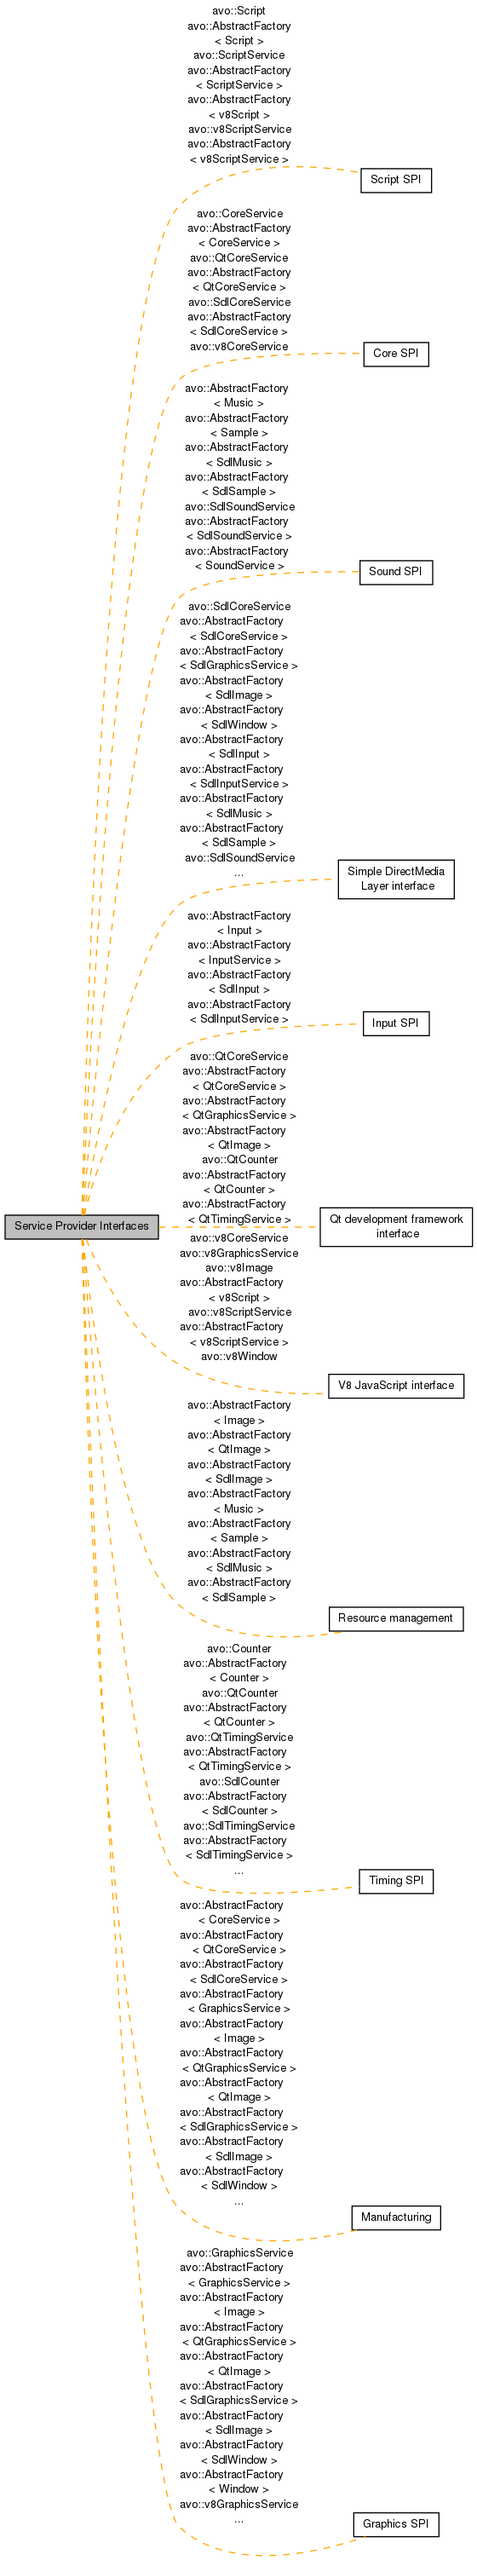
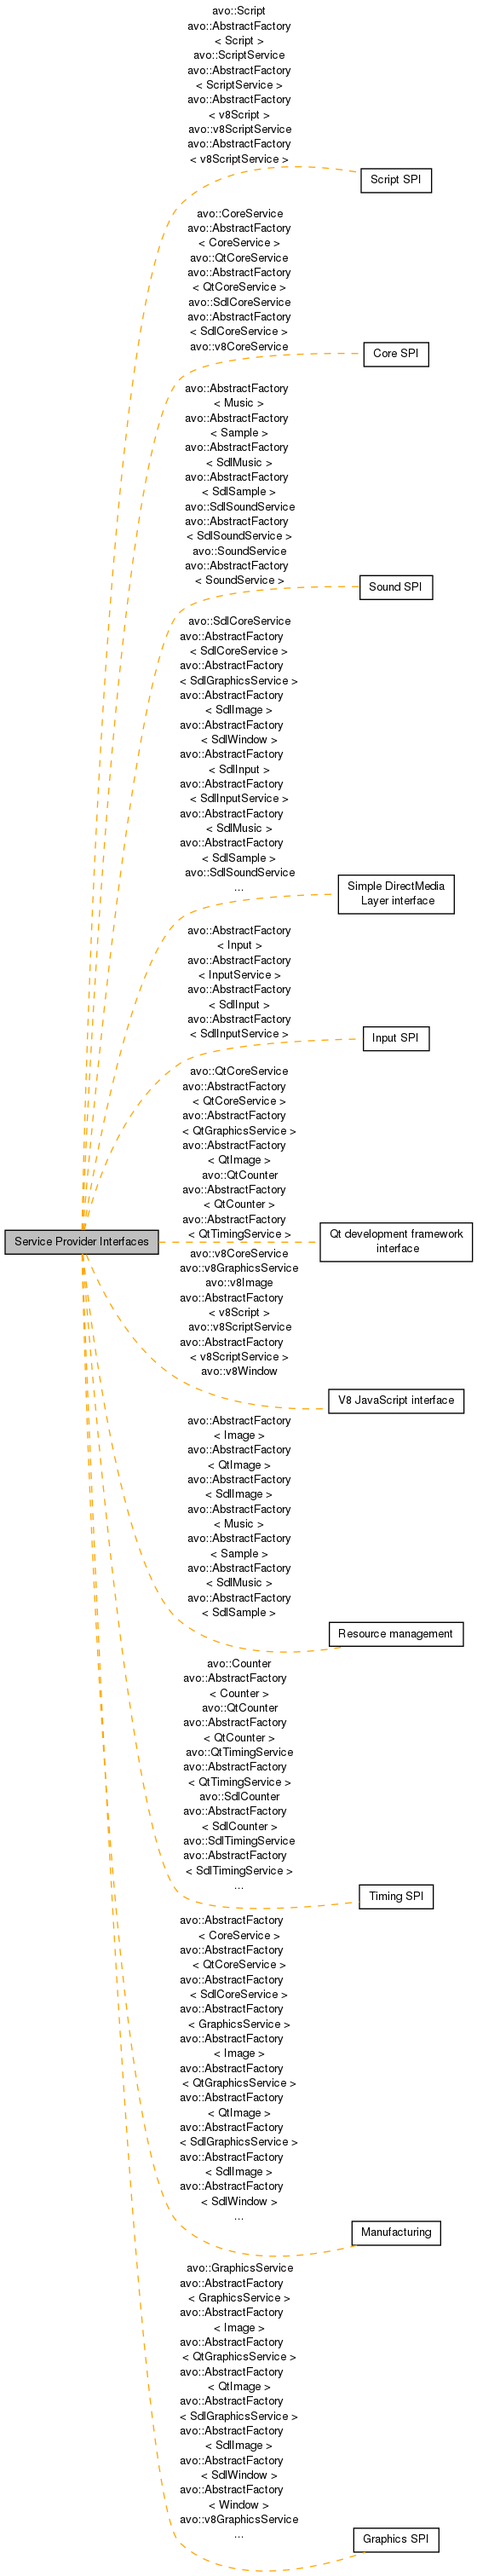
raw:8ec5e476adfdd82d0ec0cd059e87e82f430e87cd

diff --git a/cpp/group__SPI.html b/cpp/group__SPI.html
@@ -90,7 +90,7 @@ Collaboration diagram for Service Provider Interfaces:</div>
 <div class="dyncontent">
 <center><table><tr><td><img src="group__SPI.png" border="0" alt="" usemap="#group____SPI"/>
 <map name="group____SPI" id="group____SPI">
-<area shape="rect" id="node1" href="group__Script.html" title="The script SPI handles all communication between the native C++ engine and JavaScript." alt="" coords="424,197,507,227"/><area shape="rect" id="node2" href="group__Core.html" title="The core SPI handles framework initialization (e.g. SDL_Init()) and teardown (e.g. SDL_Quit()) as well as bridges to core engine functionality like filesystem access." alt="" coords="428,401,503,431"/><area shape="rect" id="node3" href="group__Sound.html" title="The sound SPI handles sound system initialization, as well as music and sample loading and playing..." alt="" coords="423,657,508,687"/><area shape="rect" id="node4" href="group__SDL.html" title="Avocado&#39;s interface to the Simple DirectMedia Layer." alt="" coords="397,1009,533,1055"/><area shape="rect" id="node5" href="group__Input.html" title="The input SPI handles user input polling." alt="" coords="427,1187,504,1216"/><area shape="rect" id="node6" href="group__Qt.html" title="Avocado&#39;s interface to the Qt development framework." alt="" coords="376,1417,555,1463"/><area shape="rect" id="node8" href="group__V8.html" title="Avocado&#39;s interface to the V8 JavaScript engine." alt="" coords="387,1612,544,1641"/><area shape="rect" id="node9" href="group__Resources.html" title="Resources are loaded from the resource root and are managed using reference counting." alt="" coords="387,1885,544,1915"/><area shape="rect" id="node10" href="group__Timing.html" title="The timing SPI handles measuring time." alt="" coords="423,2193,508,2223"/><area shape="rect" id="node11" href="group__Manufacturing.html" title="Manufacturing functionality handles abstract factory &#160;definition and managing concrete factory instan..." alt="" coords="413,2588,517,2617"/><area shape="rect" id="node12" href="group__Graphics.html" title="The graphics SPI handles window and graphics system initialization, and rendering." alt="" coords="416,2948,515,2977"/></map>
+<area shape="rect" id="node1" href="group__Script.html" title="The script SPI handles all communication between the native C++ engine and JavaScript." alt="" coords="424,197,507,227"/><area shape="rect" id="node2" href="group__Core.html" title="The core SPI handles framework initialization (e.g. SDL_Init()) and teardown (e.g. SDL_Quit()) as well as bridges to core engine functionality like filesystem access." alt="" coords="428,401,503,431"/><area shape="rect" id="node3" href="group__Sound.html" title="The sound SPI handles sound system initialization, as well as music and sample loading and playing..." alt="" coords="423,675,508,704"/><area shape="rect" id="node4" href="group__SDL.html" title="Avocado&#39;s interface to the Simple DirectMedia Layer." alt="" coords="397,1026,533,1073"/><area shape="rect" id="node5" href="group__Input.html" title="The input SPI handles user input polling." alt="" coords="427,1204,504,1233"/><area shape="rect" id="node6" href="group__Qt.html" title="Avocado&#39;s interface to the Qt development framework." alt="" coords="376,1434,555,1481"/><area shape="rect" id="node8" href="group__V8.html" title="Avocado&#39;s interface to the V8 JavaScript engine." alt="" coords="387,1629,544,1659"/><area shape="rect" id="node9" href="group__Resources.html" title="Resources are loaded from the resource root and are managed using reference counting." alt="" coords="387,1903,544,1932"/><area shape="rect" id="node10" href="group__Timing.html" title="The timing SPI handles measuring time." alt="" coords="423,2211,508,2240"/><area shape="rect" id="node11" href="group__Manufacturing.html" title="Manufacturing functionality handles abstract factory &#160;definition and managing concrete factory instan..." alt="" coords="413,2605,517,2635"/><area shape="rect" id="node12" href="group__Graphics.html" title="The graphics SPI handles window and graphics system initialization, and rendering." alt="" coords="416,2965,515,2995"/></map>
 </td></tr></table></center>
 </div>
 <table class="memberdecls">
@@ -168,6 +168,8 @@ Classes</h2></td></tr>
 <tr class="memitem:"><td class="memItemLeft" align="right" valign="top">class &#160;</td><td class="memItemRight" valign="bottom"><a class="el" href="classavo_1_1SdlSoundService.html">avo::SdlSoundService</a></td></tr>
 <tr class="separator:"><td class="memSeparator" colspan="2">&#160;</td></tr>
 <tr class="memitem:"><td class="memItemLeft" align="right" valign="top">class &#160;</td><td class="memItemRight" valign="bottom"><a class="el" href="classavo_1_1AbstractFactory_3_01SdlSoundService_01_4.html">avo::AbstractFactory&lt; SdlSoundService &gt;</a></td></tr>
+<tr class="separator:"><td class="memSeparator" colspan="2">&#160;</td></tr>
+<tr class="memitem:"><td class="memItemLeft" align="right" valign="top">class &#160;</td><td class="memItemRight" valign="bottom"><a class="el" href="classavo_1_1SoundService.html">avo::SoundService</a></td></tr>
 <tr class="separator:"><td class="memSeparator" colspan="2">&#160;</td></tr>
 <tr class="memitem:"><td class="memItemLeft" align="right" valign="top">class &#160;</td><td class="memItemRight" valign="bottom"><a class="el" href="classavo_1_1AbstractFactory_3_01SoundService_01_4.html">avo::AbstractFactory&lt; SoundService &gt;</a></td></tr>
 <tr class="separator:"><td class="memSeparator" colspan="2">&#160;</td></tr>

diff --git a/cpp/classavo_1_1SoundService.html b/cpp/classavo_1_1SoundService.html
@@ -93,7 +93,7 @@ var searchBox = new SearchBox("searchBox", "search",false,'Search');
 <a href="#pub-static-attribs">Static Public Attributes</a> &#124;
 <a href="classavo_1_1SoundService-members.html">List of all members</a>  </div>
   <div class="headertitle">
-<div class="title">avo::SoundService Class Reference<div class="ingroups"><a class="el" href="group__Sound.html">Sound SPI</a></div></div>  </div>
+<div class="title">avo::SoundService Class Reference<div class="ingroups"><a class="el" href="group__Sound.html">Sound SPI</a> &#124; <a class="el" href="group__SPI.html">Service Provider Interfaces</a></div></div>  </div>
 </div><!--header-->
 <div class="contents">
 
@@ -126,7 +126,9 @@ Static Public Attributes</h2></td></tr>
 &lt; <a class="el" href="classavo_1_1SoundService.html">SoundService</a> &gt;&#160;</td><td class="memItemRight" valign="bottom"><a class="el" href="classavo_1_1SoundService.html#ad1b73ff6157e0c711565b163af0e85dc">factoryManager</a></td></tr>
 <tr class="separator:ad1b73ff6157e0c711565b163af0e85dc"><td class="memSeparator" colspan="2">&#160;</td></tr>
 </table>
-<h2 class="groupheader">Constructor &amp; Destructor Documentation</h2>
+<a name="details" id="details"></a><h2 class="groupheader">Detailed Description</h2>
+<div class="textblock"><p>SoundService handles initialization and teardown of the sound framework. Each concrete SPI implementation (SPII) also manages SPIIs for <a class="el" href="classavo_1_1Music.html">Music</a> and <a class="el" href="classavo_1_1Sample.html">Sample</a>. </p>
+</div><h2 class="groupheader">Constructor &amp; Destructor Documentation</h2>
 <a class="anchor" id="abfd7b5149e8bceec1bd27d871df4c7ad"></a>
 <div class="memitem">
 <div class="memproto">
@@ -192,9 +194,10 @@ Static Public Attributes</h2></td></tr>
   </tr>
 </table>
 </div><div class="memdoc">
+<p>Close out the service. </p>
 
 <p>Reimplemented in <a class="el" href="classavo_1_1SdlSoundService.html#af03aa35cc5a47e8fa1a4fb33bcc4f3e4">avo::SdlSoundService</a>.</p>
-<div class="fragment"><div class="line">{ }</div>
+<div class="fragment"><div class="line">{}</div>
 </div><!-- fragment -->
 </div>
 </div>

diff --git a/cpp/group__Sound.html b/cpp/group__Sound.html
@@ -89,7 +89,7 @@ Collaboration diagram for Sound SPI:</div>
 <div class="dyncontent">
 <center><table><tr><td><img src="group__Sound.png" border="0" alt="" usemap="#group____Sound"/>
 <map name="group____Sound" id="group____Sound">
-<area shape="rect" id="node2" href="group__SDL.html" title="Avocado&#39;s interface to the Simple DirectMedia Layer." alt="" coords="292,150,428,197"/><area shape="rect" id="node3" href="group__SPI.html" title="Simply put, SPI implementations (SPIIs) provide an way for the engine to do interesting and dynamic t..." alt="" coords="271,415,449,444"/><area shape="rect" id="node4" href="group__Resources.html" title="Resources are loaded from the resource root and are managed using reference counting." alt="" coords="281,653,439,683"/><area shape="rect" id="node5" href="group__Manufacturing.html" title="Manufacturing functionality handles abstract factory &#160;definition and managing concrete factory instan..." alt="" coords="308,892,412,921"/></map>
+<area shape="rect" id="node2" href="group__SDL.html" title="Avocado&#39;s interface to the Simple DirectMedia Layer." alt="" coords="292,150,428,197"/><area shape="rect" id="node3" href="group__SPI.html" title="Simply put, SPI implementations (SPIIs) provide an way for the engine to do interesting and dynamic t..." alt="" coords="271,432,449,461"/><area shape="rect" id="node4" href="group__Resources.html" title="Resources are loaded from the resource root and are managed using reference counting." alt="" coords="281,671,439,700"/><area shape="rect" id="node5" href="group__Manufacturing.html" title="Manufacturing functionality handles abstract factory &#160;definition and managing concrete factory instan..." alt="" coords="308,909,412,939"/></map>
 </td></tr></table></center>
 </div>
 <table class="memberdecls">

diff --git a/cpp/classavo_1_1SdlSoundService.html b/cpp/classavo_1_1SdlSoundService.html
@@ -203,6 +203,7 @@ Additional Inherited Members</h2></td></tr>
   </tr>
 </table>
 </div><div class="memdoc">
+<p>Close out the service. </p>
 
 <p>Reimplemented from <a class="el" href="classavo_1_1SoundService.html#a340aa7af8146db9e899c322a8c68bcad">avo::SoundService</a>.</p>
 <div class="fragment"><div class="line">{ }</div>
